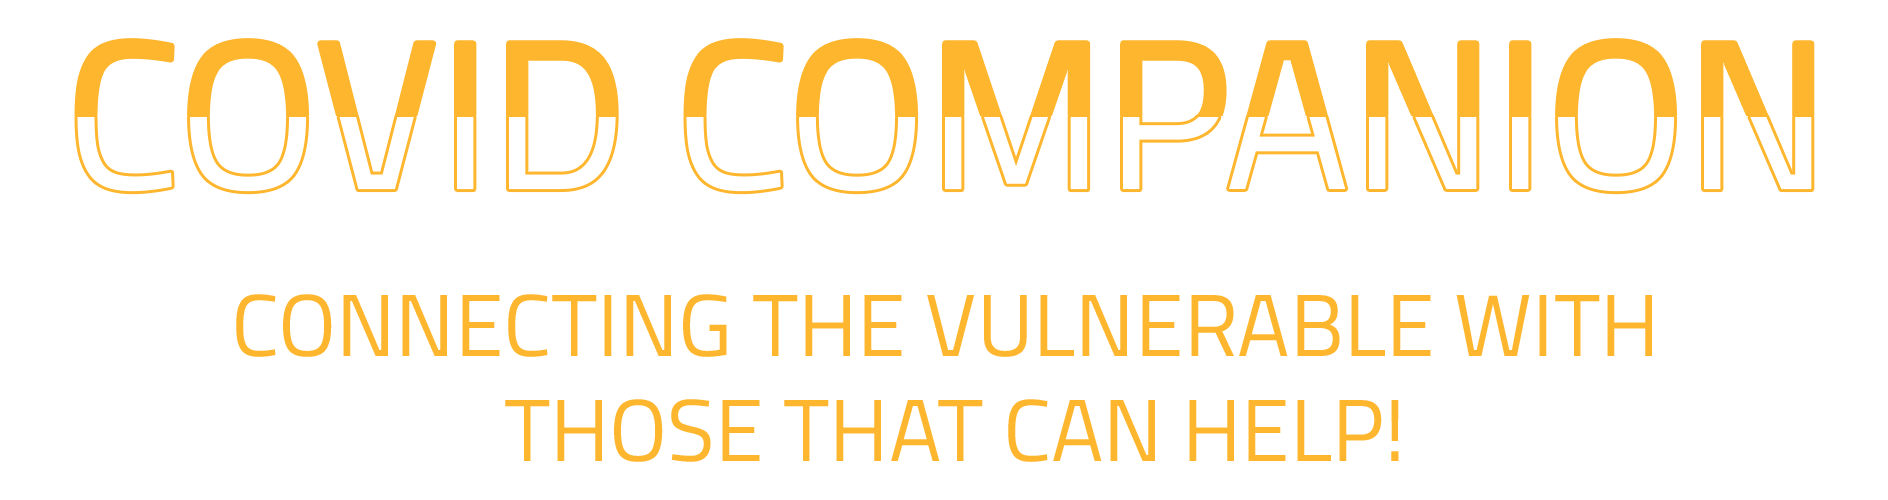
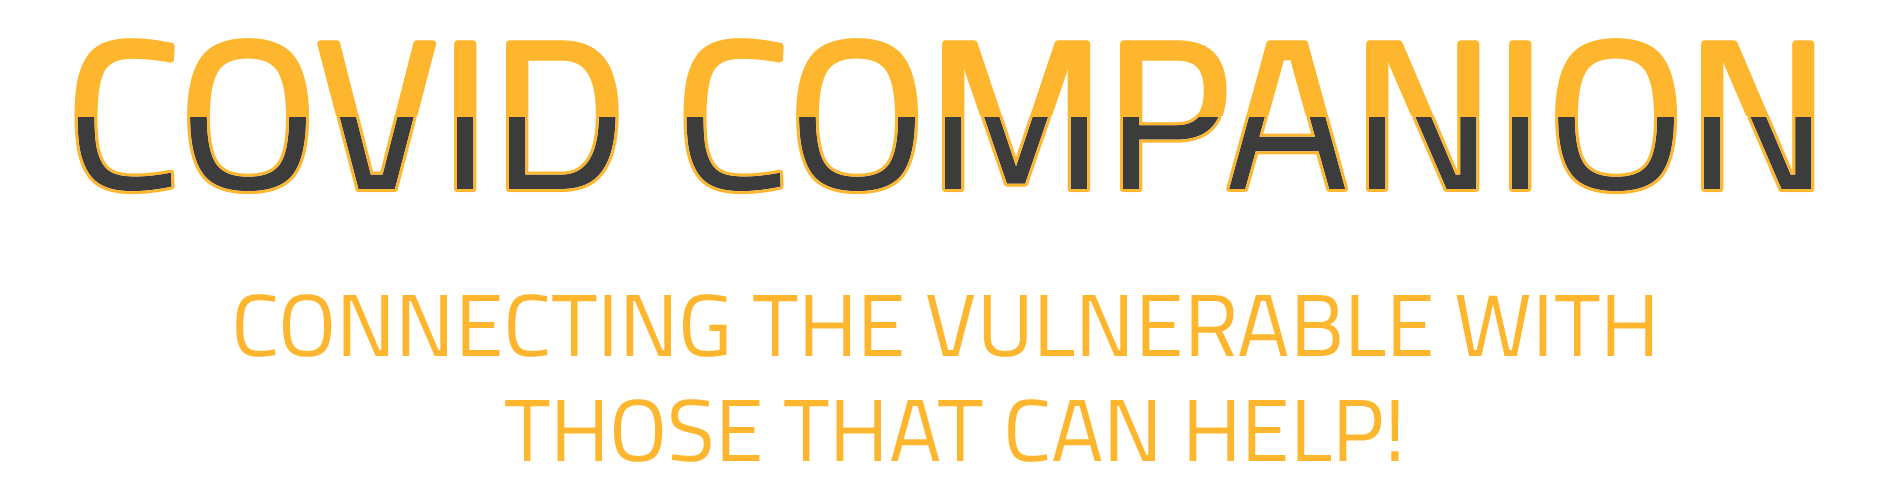
Maint: updated to do list in readme.md & also added showcase image to readme.md and in to my readme-assets folder. Switched home.png image with updated version that is no longer transparent and has dark grey background (#3c3c3c) instead to ensure its easy to read at all times

Changed region(s): [[0.0312, 0.21, 0.9688, 0.39]]

diff --git a/README.md b/README.md
@@ -16,7 +16,7 @@ retrieved from the users profile however these values can be changed like any ot
 access to a computer. Users also have the option to provide the volunteer with a list of items that they require or can click the "Is this a Click and Collect Order ?" checkbox and provide the order 
 number that they were given from the shop when they completed their click and collect order on their website.
 
-Project preview/showcase
+<h2 align="center"><img src="https://i.ibb.co/LQLmwY7/Final-Showcase.jpg"></h2>
 
 ## User Experience (UX)
 
@@ -108,10 +108,10 @@ Project preview/showcase
 - ~~Add autofill values on forms from session information~~ - **Implemented 15/04/20**
 - ~~Get content and styling for 404 pages, 500 pages, access denied pages and not your post pages~~ - **Implemented 18/04/20**
 - ~~Hero image for home page~~ - **Implemented 19/04/20**
-- Content for home page
+- ~~Content for home page~~ - **Implemented 19/04/20**
 - ~~Add content and styling for dashboard~~ - **Implemented 17/04/20**
 - ~~Create edit profile page~~ - **Implemented 16/04/20**
-- Complete README.md
+- ~~Complete README.md
 - ~~Fix site wide console error of id not being detected caused by eventlistenerID in main.js.~~ - **Implemented 15/04/20**
 - ~~Fix border radius bug that appears on iphones with all input field border radius visible.~~ - **Implemented 15/04/20**
 - Add more commenting on all code
@@ -130,7 +130,7 @@ Project preview/showcase
 - Create update password page where they need to put in old password, new password and confirm new password.
 - Setup so that all information doesnt dissapear if login or signup is unnsuccessful, only passwords dissappear.
 
-###### Last Updated: 09:51am GMT - 19/04/20 
+###### Last Updated: 10:29am GMT - 19/04/20 
 
 ### Features Left to Implement
 ##### These are features that have not been added at the time of development due to various reasons such as time limitations.
